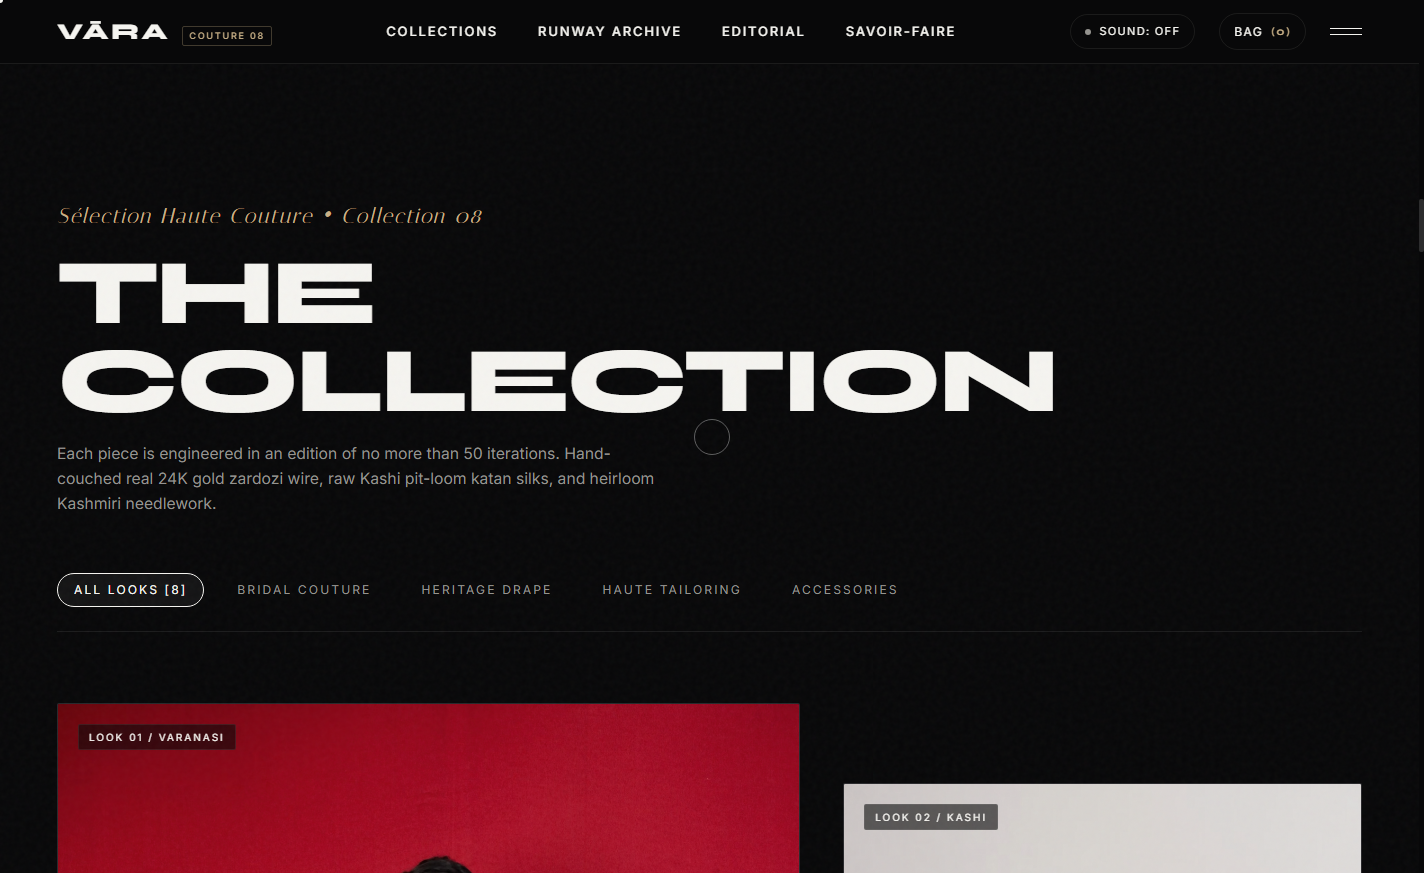
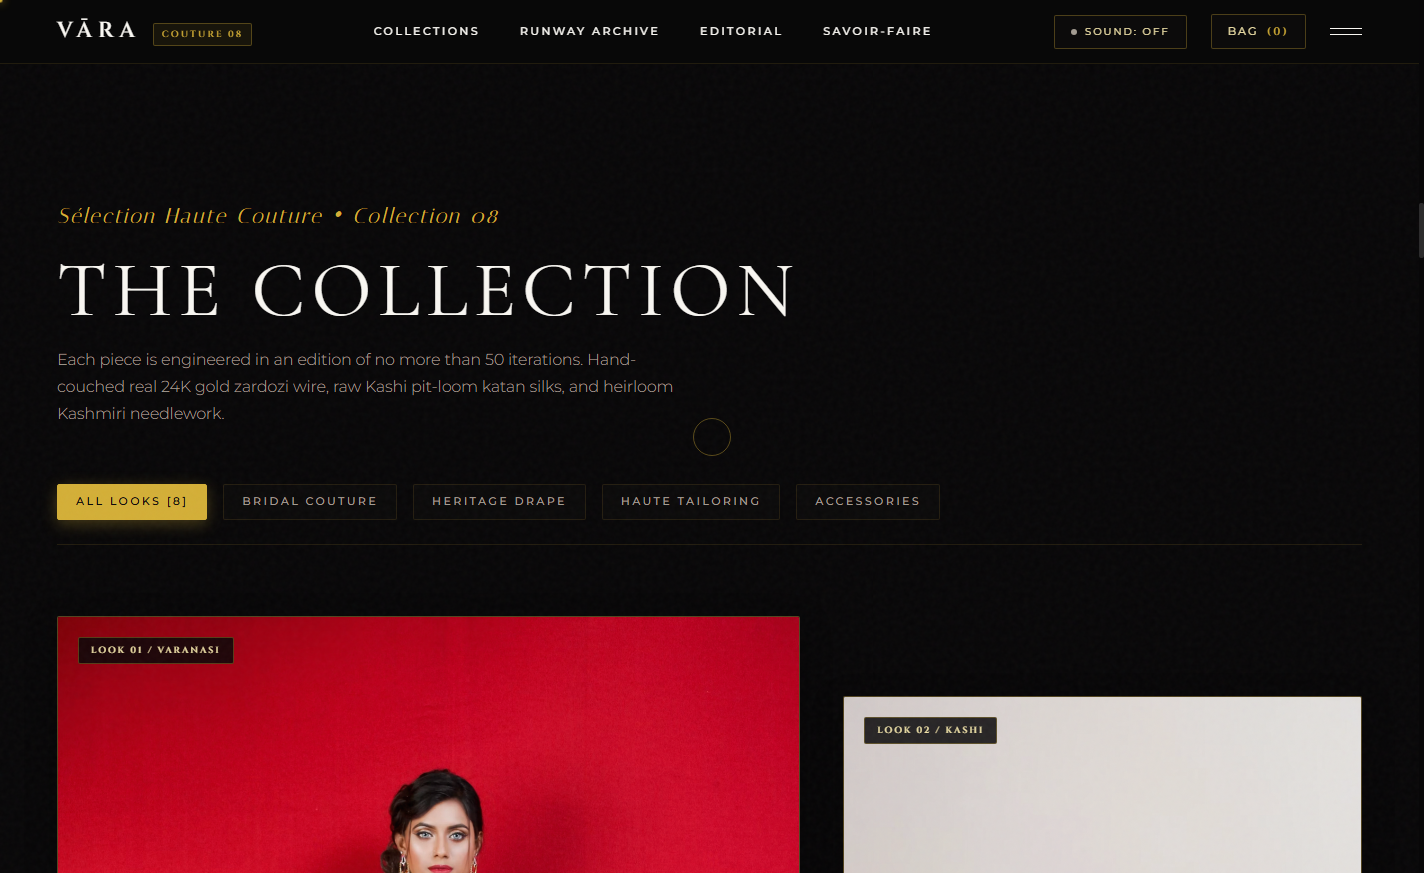
style: elevate brand styling to premium royal Indian haute couture
- Replace brutalist display typography with elegant Cormorant Garamond, Cinzel, and Italiana
- Implement royal obsidian and antique champagne gold palette with delicate hairline borders
- Redesign hero headline, Devanagari watermark seal, and architectural glass buttons
- Transform ticker strip into a dignified karigari heritage craft crest band
- Refine editorial product cards, gold pricing typography, custom cursor, and detail modal
- Update visual verification screenshots for hero, collection, and story sections

diff --git a/css/fashion.css b/css/fashion.css
@@ -645,18 +645,18 @@ body.cursor-drag .custom-cursor-dot {
 
 .menu-nav-anchor {
   font-family: var(--font-display);
-  font-size: clamp(2.2rem, 5.5vw, 5.5rem);
-  font-weight: 800;
+  font-size: clamp(2rem, 4.5vw, 4.5rem);
+  font-weight: 400;
   text-transform: uppercase;
-  line-height: 0.95;
-  letter-spacing: -0.02em;
+  line-height: 1.1;
+  letter-spacing: 0.08em;
   color: var(--text-light);
   transition: color 0.3s ease, transform 0.4s var(--ease-luxury);
   display: inline-block;
 }
 
 .menu-nav-anchor:hover {
-  color: var(--accent-gold);
+  color: var(--accent-gold-light);
   transform: translateX(1.5rem);
 }
 
@@ -667,7 +667,8 @@ body.cursor-drag .custom-cursor-dot {
   justify-self: end;
   overflow: hidden;
   border-radius: 2px;
-  border: 1px solid var(--border-subtle);
+  border: 1px solid var(--border-gold);
+  box-shadow: 0 15px 45px rgba(0, 0, 0, 0.6);
 }
 
 .menu-preview-img {
@@ -2390,23 +2391,27 @@ body.cursor-drag .custom-cursor-dot {
 }
 
 .footer-logo {
-  font-family: var(--font-display);
-  font-size: 2rem;
-  font-weight: 800;
-  letter-spacing: 0.1em;
+  font-family: var(--font-heading);
+  font-size: 1.85rem;
+  font-weight: 600;
+  letter-spacing: 0.28em;
   text-transform: uppercase;
+  color: var(--text-light);
 }
 
 .footer-manifesto-snippet {
+  font-family: var(--font-sans);
   font-size: 0.95rem;
-  color: var(--text-muted);
+  color: #b5ada3;
   max-width: 320px;
-  line-height: 1.6;
+  line-height: 1.7;
+  font-weight: 300;
 }
 
 .footer-column-heading {
-  font-size: 11px;
-  letter-spacing: 0.2em;
+  font-family: var(--font-heading);
+  font-size: 10px;
+  letter-spacing: 0.25em;
   text-transform: uppercase;
   color: var(--accent-gold);
   margin-bottom: 1.5rem;
@@ -2419,15 +2424,16 @@ body.cursor-drag .custom-cursor-dot {
 }
 
 .footer-link {
-  font-size: 13px;
-  letter-spacing: 0.08em;
+  font-family: var(--font-sans);
+  font-size: 12px;
+  letter-spacing: 0.1em;
   color: var(--text-muted);
   transition: color 0.3s ease, transform 0.3s ease;
   display: inline-block;
 }
 
 .footer-link:hover {
-  color: var(--text-light);
+  color: var(--accent-gold-light);
   transform: translateX(4px);
 }
 
@@ -2451,9 +2457,10 @@ body.cursor-drag .custom-cursor-dot {
 }
 
 .clock-time {
-  font-family: var(--font-display);
-  font-weight: 600;
-  color: var(--text-light);
+  font-family: var(--font-heading);
+  font-size: 11px;
+  letter-spacing: 0.08em;
+  color: var(--accent-gold-light);
 }
 
 /* Newsletter Input */
@@ -2467,12 +2474,12 @@ body.cursor-drag .custom-cursor-dot {
   position: relative;
   display: flex;
   align-items: center;
-  border-bottom: 1px solid var(--border-subtle);
+  border-bottom: 1px solid var(--border-gold);
   transition: border-color 0.3s ease;
 }
 
 .newsletter-input-wrap:focus-within {
-  border-color: var(--text-light);
+  border-color: var(--accent-gold);
 }
 
 .newsletter-input {
@@ -2491,8 +2498,9 @@ body.cursor-drag .custom-cursor-dot {
 }
 
 .newsletter-submit-btn {
+  font-family: var(--font-heading);
   font-size: 11px;
-  letter-spacing: 0.2em;
+  letter-spacing: 0.22em;
   text-transform: uppercase;
   color: var(--accent-gold);
   padding: 8px 0;
@@ -2500,7 +2508,7 @@ body.cursor-drag .custom-cursor-dot {
 }
 
 .newsletter-submit-btn:hover {
-  color: var(--text-light);
+  color: var(--accent-gold-light);
 }
 
 /* Monumental Brand Typography in Footer */
@@ -2514,12 +2522,12 @@ body.cursor-drag .custom-cursor-dot {
 
 .footer-monument-brand {
   font-family: var(--font-display);
-  font-size: clamp(4rem, 16vw, 17rem);
-  font-weight: 800;
-  line-height: 0.75;
-  letter-spacing: -0.04em;
+  font-size: clamp(5rem, 18vw, 19rem);
+  font-weight: 300;
+  line-height: 0.8;
+  letter-spacing: 0.18em;
   text-transform: uppercase;
-  color: rgba(255, 255, 255, 0.05);
+  color: rgba(212, 175, 55, 0.05);
   user-select: none;
   pointer-events: none;
   transition: color 0.6s ease;
